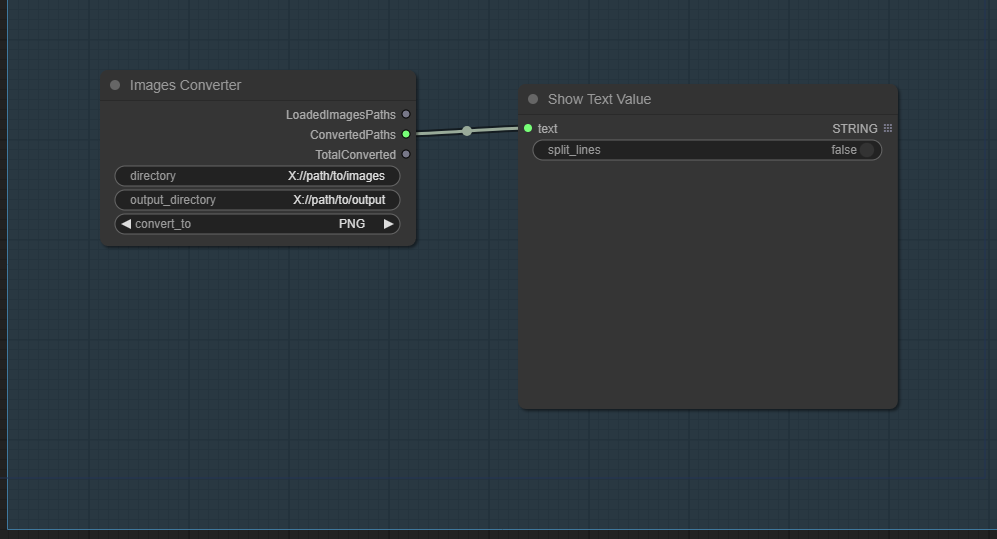
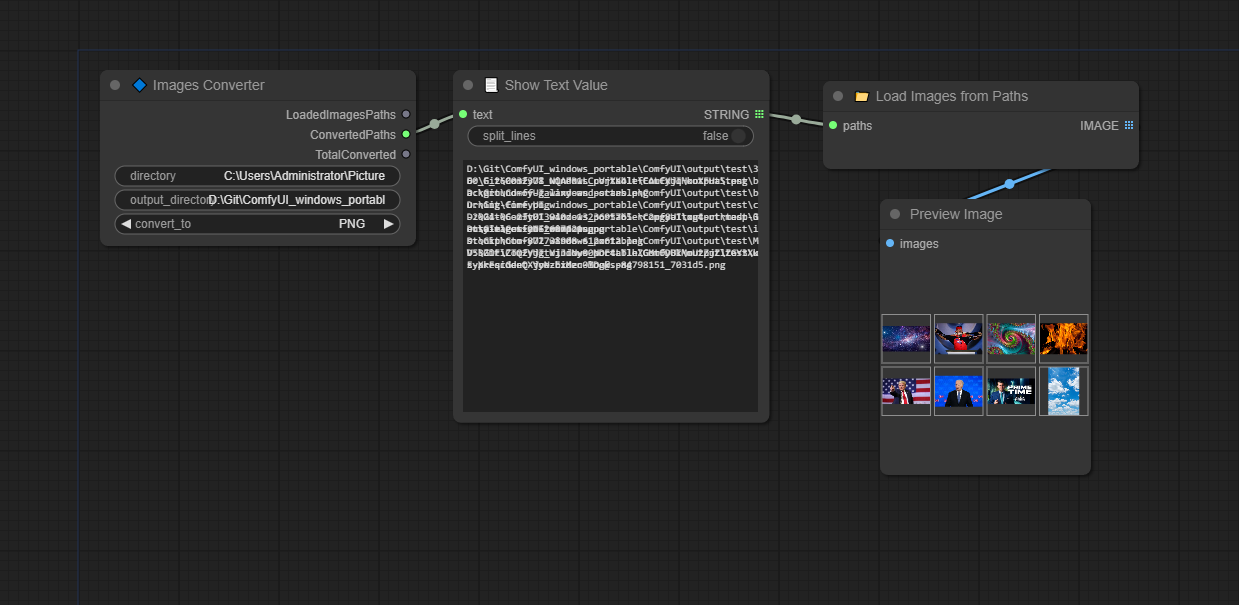
Working

diff --git a/README.md b/README.md
@@ -2,9 +2,10 @@
 A set of custom nodes for ComfyUI I needed for myself but I'm sharing with the public. 
 - **Images_Converter** : Images conversions to any PNG, JPEG, or others.
 - **Show_Text** : Show a text or list of text values.
+- **Load_Images_from_Paths** : Load images from their file paths.
 - **JSPaint** : Integration of JSPaint into ComfyUI
 
-## Conversion nodes
+## Conversion + Show Text + Load Images from Paths
 
 ![Conversion Nodes examples](workflow_conversion.png "Conversion Nodes examples")
 
